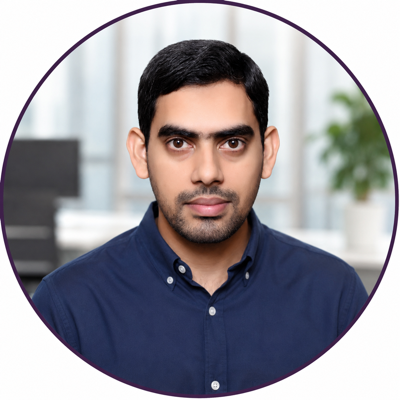
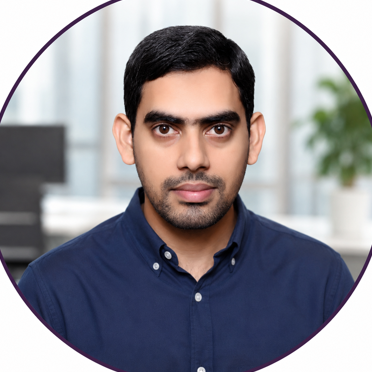
Fix clipped profile photo

Changed region(s): [[0.0, 0.0, 1.0, 1.0], [0.2366, 0.5914, 0.2957, 0.621], [0.828, 0.5618, 0.8575, 0.5914]]

diff --git a/index.html b/index.html
@@ -24,7 +24,7 @@
   main { max-width:860px; margin:0 auto; padding:3.5rem 1.25rem 5rem; perspective:1200px }
 
   header.hero { display:flex; align-items:center; gap:2rem; flex-wrap:wrap; margin-bottom:3rem; transform-style:preserve-3d }
-  .hero img { width:150px; height:150px; border-radius:50%; object-fit:cover; flex:none; transform:translateZ(60px);
+  .hero img { width:150px; height:150px; border-radius:50%; object-fit:cover; flex:none;
               box-shadow:0 30px 60px -20px rgba(0,0,0,.8), 0 0 0 6px var(--bg), 0 0 0 8px var(--accent) }
   .hero h1 { margin:0; font-size:clamp(2.2rem,6vw,3.4rem); letter-spacing:-.03em; line-height:1.05;
              background:linear-gradient(90deg,#fff,var(--accent)); -webkit-background-clip:text; background-clip:text; color:transparent }
